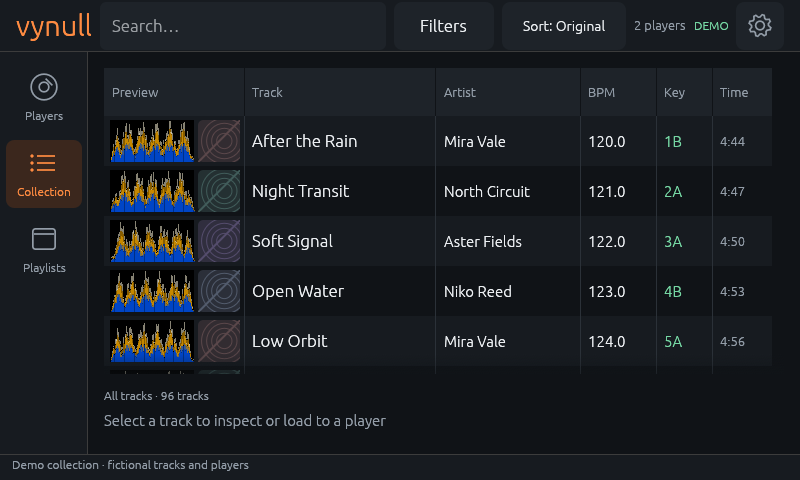
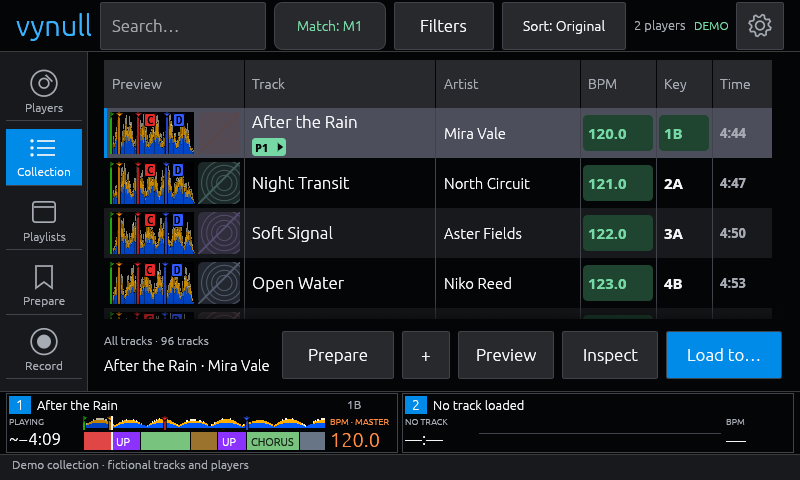
Screenshots: recapture the README images with this branch's UI
The README's 13 images, the Record page included, are recaptured from
the demo with the XDJ-AZ layout, using capture.py --readme-only.

diff --git a/README.md b/README.md
@@ -15,8 +15,7 @@ an **800×480 landscape display** and adapts to 1024×600 and larger windows. Se
 playback layouts inspired by the XDJ-AZ interface: a black-and-blue theme, live
 deck summaries beneath the track lists, larger time and BPM readouts under the
 waveforms, and player controls in the app toolbar. The screenshots below show
-the baseline UI; `python3 scripts/capture.py --xdj-az-only` captures the
-experiment.
+this branch's current UI.
 
 ![Collection at 800×480](docs/collection-800x480.png)
 
